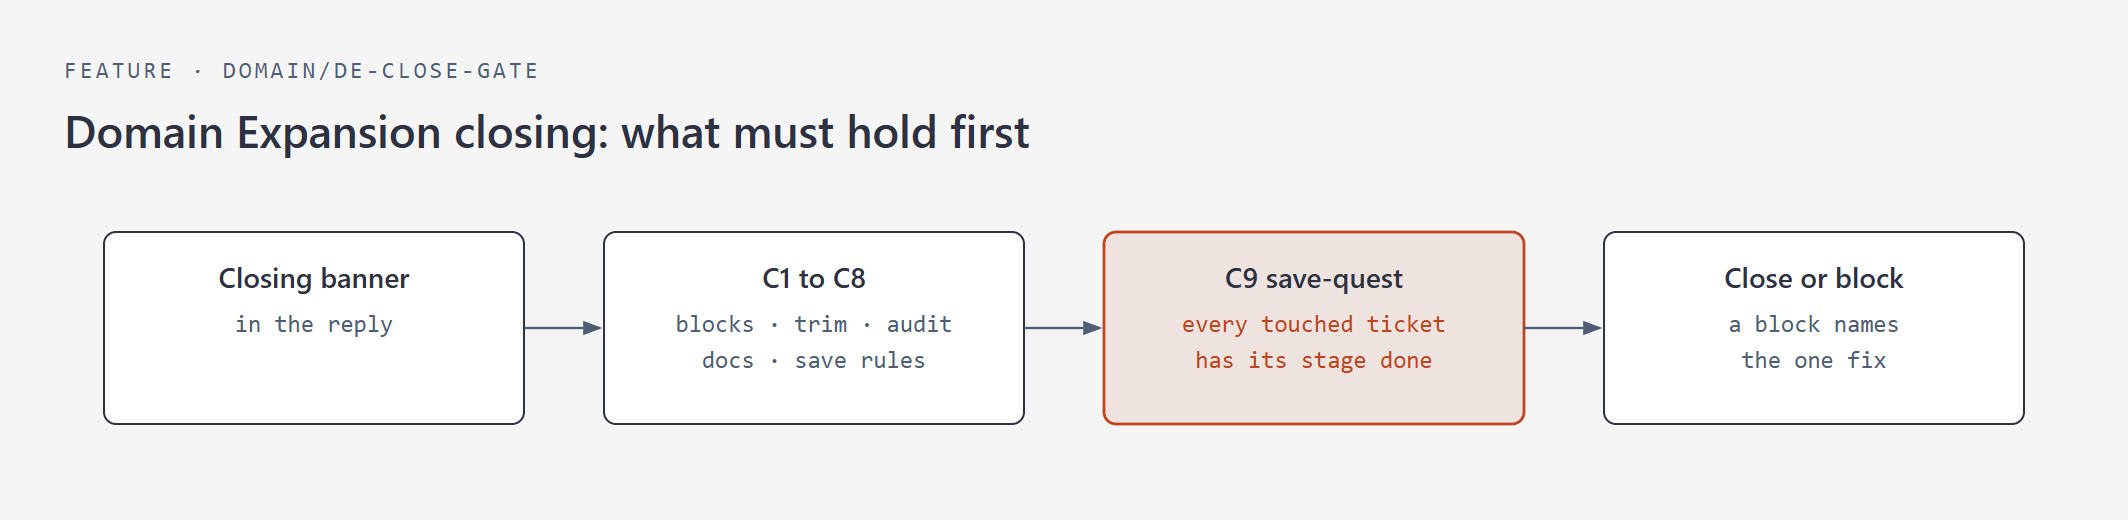
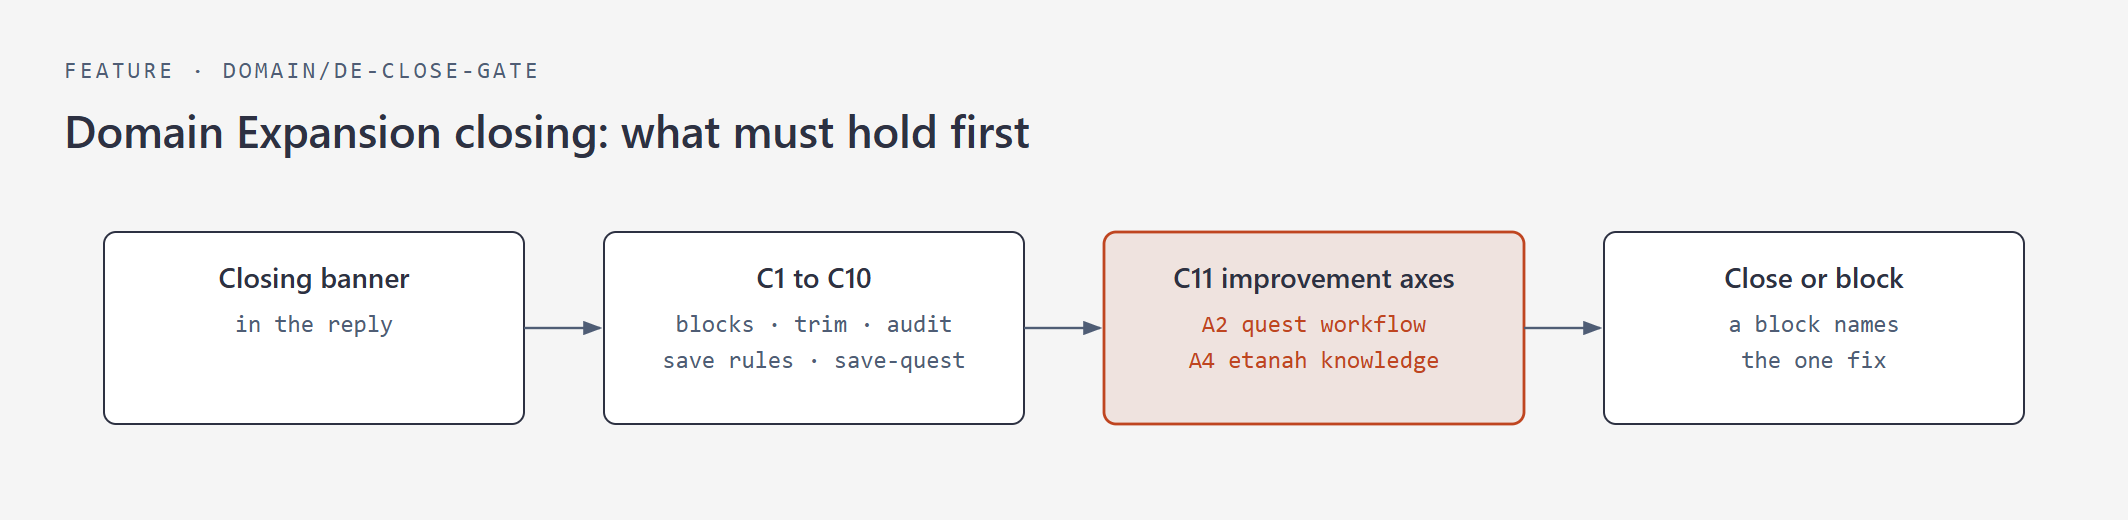
de-close-gate C11: DE close needs an A2 quest-workflow line and an A4 etanah-knowledge line; Step 7.5 points at it (per miya, 254267; design audited by claude-fable-5-2) (landed from 2678d44b)

diff --git a/domain/de-close-gate/de-close-gate.check.hook.js b/domain/de-close-gate/de-close-gate.check.hook.js
@@ -19,6 +19,8 @@
 //   C8 SAVE RULES RAN: the latest full action=save-rules-ran row (12h) carries fail=0 (lib/save-rules.js, DE step 12.7).
 //   C9 SAVE-QUEST DONE: every touched QA ticket has a lib/save-quest.js run this session and its stage was done (DE step 2d).
 //   C10 SESSION FINDINGS ROUTED: each class lib/session-audit.js finds in this transcript has a reply line "<class> → <home>" (DE step 7.4).
+//   C11 IMPROVEMENT AXES (2026-11-17 per miya, 254267, design audited by claude-fable-5-2): the session's replies carry
+//       "A2 quest workflow: <finding + proposal | none: reason>" and "A4 etanah-knowledge (<general|state>): <finding + file | none: reason>" (DE step 7.5).
 // PASS (silent): not-DE-close · bypass · all conditions hold
 // BYPASS: [skip-de-close-gate: <reason>] in the last assistant text
 // TEST HOOK: input JSON `_testEvents` overrides transcript parse; `_testActiveText`,
@@ -250,6 +252,16 @@ function checkC10(events, findings) {
   return { pass: unrouted.length === 0, unrouted };
 }
 
+// C11 — IMPROVEMENT AXES (2026-11-17, per miya on 254267: every DE audits the quest workflow and etanah-knowledge).
+// Step 7.5 asked for them in prose only. Any assistant text of the session counts, not only the last block (Fable audit).
+const A2_LINE = /\bA2 quest workflow:[ \t]*[^\s|]/i;
+const A4_LINE = /\bA4 etanah[- ]knowledge \([ \t]*[\w-]+[ \t]*\):[ \t]*[^\s|]/i;
+function checkC11(events) {
+  const text = events.filter(e => e.kind === 'text' && e.role === 'assistant').map(e => String(e.text)).join('\n');
+  const missing = [!A2_LINE.test(text) && 'A2', !A4_LINE.test(text) && 'A4'].filter(Boolean);
+  return { pass: missing.length === 0, missing };
+}
+
 function evaluate(events, disk) {
   const last = lastAssistantText(events);
   if (!last || !DE_CLOSE.test(last)) return { verdict: 'silent', reason: 'not-de-close' };
@@ -264,8 +276,9 @@ function evaluate(events, disk) {
   const c8 = checkC8(disk.gateLogLines, disk.now);
   const c9 = checkC9(events, disk.saveQuestLines || [], disk.sessionStartMs || 0, disk.now);
   const c10 = checkC10(events, disk.findings);
-  if (c1.pass && c2.pass && c3.pass && c4.pass && c5.pass && c6.pass && c7.pass && c8.pass && c9.pass && c10.pass) return { verdict: 'pass', c1, c2, c3, c4, c5, c6, c7, c8, c9, c10 };
-  return { verdict: 'block', c1, c2, c3, c4, c5, c6, c7, c8, c9, c10 };
+  const c11 = checkC11(events);
+  if (c1.pass && c2.pass && c3.pass && c4.pass && c5.pass && c6.pass && c7.pass && c8.pass && c9.pass && c10.pass && c11.pass) return { verdict: 'pass', c1, c2, c3, c4, c5, c6, c7, c8, c9, c10, c11 };
+  return { verdict: 'block', c1, c2, c3, c4, c5, c6, c7, c8, c9, c10, c11 };
 }
 
 function readDisk() {
@@ -312,6 +325,8 @@ function buildBlockReason(r) {
     '   Fix: node lib/save-quest.js <QA> per ticket, do its stage (close-phase skill), re-run it; an unfinished quest gets a reply line "Phase 1 not ready: <QA> <what is missing>".');
   if (r.c10 && !r.c10.pass) rows.push('C10 SESSION FINDINGS NOT ROUTED (DE step 7.4): ' + r.c10.unrouted.join(', '),
     '   Fix: node lib/session-audit.js, then one reply line per class: <class> → <home: knowledge/tool/gate/workflow/memory file, or why none>, then re-close.');
+  if (r.c11 && !r.c11.pass) rows.push('C11 IMPROVEMENT AXES MISSING (DE step 7.5): ' + r.c11.missing.join(', '),
+    '   Fix: add "A2 quest workflow: <finding + proposal row | none: reason>" and "A4 etanah-knowledge (<general|state>): <finding + file | none: reason>", then re-close.');
   return [
     '⛔ de-close-gate: Domain Expansion is closing but a deterministic close-condition FAILED:',
     ...rows.map(x => '   ' + x),
@@ -349,7 +364,7 @@ if (require.main === module) {
     const r = evaluate(events, disk);
     if (r.verdict === 'block') {
       const text = buildBlockReason(r);
-      logFire(secondStop ? 'failed-second-stop' : 'blocked', [!r.c1.pass && ('C1:' + r.c1.missing.join('/')), !r.c2.pass && 'C2', !r.c3.pass && ('C3:' + r.c3.lineCount), !r.c4.pass && 'C4', r.c5 && !r.c5.pass && ('C5:' + r.c5.missing.length), r.c6 && !r.c6.pass && 'C6', r.c7 && !r.c7.pass && ('C7:' + r.c7.stale.length), r.c8 && !r.c8.pass && ('C8:' + (r.c8.ran ? r.c8.fail + 'fail' : 'not-run')), r.c9 && !r.c9.pass && ('C9:' + (r.c9.missing.length + r.c9.undone.length)), r.c10 && !r.c10.pass && ('C10:' + r.c10.unrouted.length)].filter(Boolean).join(' '));
+      logFire(secondStop ? 'failed-second-stop' : 'blocked', [!r.c1.pass && ('C1:' + r.c1.missing.join('/')), !r.c2.pass && 'C2', !r.c3.pass && ('C3:' + r.c3.lineCount), !r.c4.pass && 'C4', r.c5 && !r.c5.pass && ('C5:' + r.c5.missing.length), r.c6 && !r.c6.pass && 'C6', r.c7 && !r.c7.pass && ('C7:' + r.c7.stale.length), r.c8 && !r.c8.pass && ('C8:' + (r.c8.ran ? r.c8.fail + 'fail' : 'not-run')), r.c9 && !r.c9.pass && ('C9:' + (r.c9.missing.length + r.c9.undone.length)), r.c10 && !r.c10.pass && ('C10:' + r.c10.unrouted.length), r.c11 && !r.c11.pass && ('C11:' + r.c11.missing.join('/'))].filter(Boolean).join(' '));
       if (secondStop) return { fired: true, blocked: false };
       return { fired: true, blocked: true, blockReason: text };
     }
@@ -358,4 +373,4 @@ if (require.main === module) {
   });
 }
 
-module.exports = { evaluate, touchedTickets, checkC1, checkC2, checkC3, checkC4, checkC5, checkC6, checkC7, checkC8, checkC9, checkC10, editedSystemFiles };
+module.exports = { evaluate, touchedTickets, checkC1, checkC2, checkC3, checkC4, checkC5, checkC6, checkC7, checkC8, checkC9, checkC10, checkC11, editedSystemFiles };

diff --git a/domain/de-close-gate/de-close-gate.eval.js b/domain/de-close-gate/de-close-gate.eval.js
@@ -18,7 +18,20 @@ const STALE_RECON = [JSON.stringify({ ts: '2026-08-01T00:00:00Z', action: 'recon
 
 const SQ = (qa, verdict, ts) => JSON.stringify({ ts: ts || new Date().toISOString(), qa, redmine: 'Resolved', local: 'active', verdict, dur_ms: 5 });
 
+// C11 (2026-11-17): every DE close carries the two improvement-axis lines; fixtures get them unless _noAxes.
+const AXES = 'A2 quest workflow: none: no quest this session\nA4 etanah-knowledge (general): none: no etanah work';
 function run(overrides) {
+  const o = Object.assign({}, overrides);
+  if (!o._noAxes) {
+    const base = o._testEvents || [
+      { kind: 'tool', name: 'Bash', blob: 'git commit -m "Ref QA-276182 fix"' },
+      { kind: 'tool', name: 'Edit', blob: '{"file_path":"projects/coding-projects/active/QA-276182/QA-276182.md"}' },
+      { kind: 'text', role: 'assistant', text: CLOSE_BANNER },
+    ];
+    o._testEvents = [{ kind: 'text', role: 'assistant', text: AXES }, ...base];
+  }
+  delete o._noAxes;
+  overrides = o;
   const stdin = JSON.stringify(Object.assign({
     transcript_path: '',
     _testEvents: [
@@ -212,6 +225,33 @@ r = run({ _testFindings: [] });
 check('C10 no findings passes', r.status === 0, 'exit=' + r.status);
 r = run({ transcript_path: 'C:/no/such/file.jsonl' });
 check('C10 audit script failure never blocks', r.status === 0, 'exit=' + r.status);
+
+// C11 — improvement axes (2026-11-17, 254267): the close needs an A2 quest-workflow line and an A4 etanah-knowledge line.
+const C11BASE = [
+  { kind: 'tool', name: 'Bash', blob: 'git commit -m "Ref QA-276182 fix"' },
+  { kind: 'tool', name: 'Edit', blob: '{"file_path":"projects/coding-projects/active/QA-276182/QA-276182.md"}' },
+];
+const close = t => ({ kind: 'text', role: 'assistant', text: t });
+r = run({ _noAxes: true, _testEvents: [...C11BASE, close(CLOSE_BANNER)] });
+check('C11-1 REPLAY 254267: a close with neither line -> BLOCK naming A2 and A4', r.status === 2 && /C11 IMPROVEMENT AXES MISSING/.test(r.stderr) && /A2, A4/.test(r.stderr), 'exit=' + r.status);
+r = run({ _noAxes: true, _testEvents: [...C11BASE, close('A2 quest workflow: proposal logged for teammate rows\n' + CLOSE_BANNER)] });
+check('C11-2 A2 only -> BLOCK naming A4', r.status === 2 && /AXES MISSING[^\n]*A4/.test(r.stderr) && !/MISSING[^\n]*A2/.test(r.stderr), 'exit=' + r.status);
+r = run({ _noAxes: true, _testEvents: [...C11BASE, close('A2 quest workflow: x\nA4 etanah-knowledge (perak): STATE-FACTS 12 added'), close(CLOSE_BANNER)] });
+check('C11-3 lines in an EARLIER reply of the close count (Fable audit) -> pass', r.status === 0, 'exit=' + r.status + ' ' + r.stderr.slice(0, 200));
+r = run({ _noAxes: true, _testEvents: [...C11BASE, close('A2 quest workflow: none: no quest\nA4 etanah-knowledge (general): none: no etanah work\n' + CLOSE_BANNER)] });
+check('C11-4 "none: reason" on both lines -> pass', r.status === 0, 'exit=' + r.status);
+r = run({ _noAxes: true, _testEvents: [...C11BASE, close('| A2 quest workflow: proposal row 2 |\n| A4 etanah knowledge (melaka): DATABASE.md |\n' + CLOSE_BANNER)] });
+check('C11-5 lines inside a table row, "etanah knowledge" with a space -> pass', r.status === 0, 'exit=' + r.status);
+r = run({ _noAxes: true, _testEvents: [...C11BASE, close('A2 quest workflow:\nA4 etanah-knowledge (general):\n' + CLOSE_BANNER)] });
+check('C11-6 empty lines (label only) -> BLOCK', r.status === 2 && /C11/.test(r.stderr), 'exit=' + r.status);
+r = run({ _noAxes: true, _testEvents: [...C11BASE, close('A2 quest workflow: x\nA4 etanah-knowledge: y\n' + CLOSE_BANNER)] });
+check('C11-7 A4 without its (general|state) scope -> BLOCK naming A4', r.status === 2 && /AXES MISSING[^\n]*A4/.test(r.stderr), 'exit=' + r.status);
+r = run({ _noAxes: true, _testEvents: [...C11BASE, { kind: 'text', role: 'user', text: 'A2 quest workflow: x\nA4 etanah-knowledge (general): y' }, close(CLOSE_BANNER)] });
+check('C11-8 lines only in HIS message do not count -> BLOCK', r.status === 2 && /C11/.test(r.stderr), 'exit=' + r.status);
+r = run({ _noAxes: true, _testEvents: [close('normal reply, no banner')] });
+check('C11-9 not a DE close -> silent even without the lines', r.status === 0, 'exit=' + r.status);
+r = run({ _noAxes: true, _testEvents: [...C11BASE, close(CLOSE_BANNER + '\n[skip-de-close-gate: test]')] });
+check('C11-10 bypass token still works', r.status === 0, 'exit=' + r.status);
 r = run({ stop_hook_active: true, _testFindings: FINDING });
 check('C10 second stop does not block again', r.status === 0, 'exit=' + r.status);
 

diff --git a/domain/de-close-gate/diagram.html b/domain/de-close-gate/diagram.html
@@ -19,7 +19,7 @@ svg { width: 100%; min-width: 900px; display: block; }
 <h1>Domain Expansion closing: what must hold first</h1>
 <svg viewBox="0 0 1000 136" xmlns="http://www.w3.org/2000/svg" role="img" aria-labelledby="t d">
 <title id="t">Domain Expansion closing: what must hold first</title>
-<desc id="d">Closing banner, then C1 to C8, then C9 save-quest, then Close or block.</desc>
+<desc id="d">Closing banner, then C1 to C10, then C11 improvement axes, then Close or block.</desc>
 <defs><marker id="a" markerWidth="8" markerHeight="6" refX="7" refY="3" orient="auto"><polygon points="0 0, 8 3, 0 6" fill="#4f5d75"/></marker></defs>
 <rect width="100%" height="100%" fill="#f5f5f5"/>
 <rect x="20" y="20" width="210" height="96" rx="6" fill="#ffffff" stroke="#2d3142" stroke-width="1"/>
@@ -27,14 +27,14 @@ svg { width: 100%; min-width: 900px; display: block; }
 <text x="125" y="70" fill="#4f5d75" font-size="12" font-family="Consolas, monospace" text-anchor="middle">in the reply</text>
 <line x1="230" y1="68" x2="268" y2="68" stroke="#4f5d75" stroke-width="1.2" marker-end="url(#a)"/>
 <rect x="270" y="20" width="210" height="96" rx="6" fill="#ffffff" stroke="#2d3142" stroke-width="1"/>
-<text x="375" y="48" fill="#2d3142" font-size="14" font-weight="600" text-anchor="middle">C1 to C8</text>
+<text x="375" y="48" fill="#2d3142" font-size="14" font-weight="600" text-anchor="middle">C1 to C10</text>
 <text x="375" y="70" fill="#4f5d75" font-size="12" font-family="Consolas, monospace" text-anchor="middle">blocks · trim · audit</text>
-<text x="375" y="88" fill="#4f5d75" font-size="12" font-family="Consolas, monospace" text-anchor="middle">docs · save rules</text>
+<text x="375" y="88" fill="#4f5d75" font-size="12" font-family="Consolas, monospace" text-anchor="middle">save rules · save-quest</text>
 <line x1="480" y1="68" x2="518" y2="68" stroke="#4f5d75" stroke-width="1.2" marker-end="url(#a)"/>
 <rect x="520" y="20" width="210" height="96" rx="6" fill="rgba(191,69,32,0.10)" stroke="#bf4520" stroke-width="1.4"/>
-<text x="625" y="48" fill="#2d3142" font-size="14" font-weight="600" text-anchor="middle">C9 save-quest</text>
-<text x="625" y="70" fill="#bf4520" font-size="12" font-family="Consolas, monospace" text-anchor="middle">every touched ticket</text>
-<text x="625" y="88" fill="#bf4520" font-size="12" font-family="Consolas, monospace" text-anchor="middle">has its stage done</text>
+<text x="625" y="48" fill="#2d3142" font-size="14" font-weight="600" text-anchor="middle">C11 improvement axes</text>
+<text x="625" y="70" fill="#bf4520" font-size="12" font-family="Consolas, monospace" text-anchor="middle">A2 quest workflow</text>
+<text x="625" y="88" fill="#bf4520" font-size="12" font-family="Consolas, monospace" text-anchor="middle">A4 etanah knowledge</text>
 <line x1="730" y1="68" x2="768" y2="68" stroke="#4f5d75" stroke-width="1.2" marker-end="url(#a)"/>
 <rect x="770" y="20" width="210" height="96" rx="6" fill="#ffffff" stroke="#2d3142" stroke-width="1"/>
 <text x="875" y="48" fill="#2d3142" font-size="14" font-weight="600" text-anchor="middle">Close or block</text>

diff --git a/domain/de-close-gate/README.md b/domain/de-close-gate/README.md
@@ -51,11 +51,13 @@ Rule: DE close BLOCKS unless the latest full (non-partial) `action=save-rules-ra
 ## C7 — qa_doc saved this session (added 2026-09-23, #280176 DE audit)
 Every touched ticket whose active.txt block names a `qa_doc=` must have that file modified after the session started. Step 2c (save every quest touched) had no check. A doc absent on disk is skipped; a worktree also looks in the main checkout three levels up. Eval F19–F21.
 
-diagram: domain/de-close-gate/diagram.png (C9 marked)
+diagram: domain/de-close-gate/diagram.png (C11 marked)
 self_audit: the eval replays every condition; each fire writes passed or blocked with the failing conditions to log.jsonl
 
 **C9 SAVE-QUEST (2026-10-30, per みや: "please audit if just saying DE is enough to perform save quest")**: step 2d of Domain Expansion said to run `lib/save-quest.js` for every touched quest, and nothing checked it. C9 blocks the close when a touched QA ticket has no run this session, or its latest verdict is still PHASE-1, PHASE-2 or LEARN-THEN-PHASE-2 with no reply line "Phase 1 not ready: <QA> <what is missing>". An ADHOC id is exempt (adhoc-save owns it). Eval 44/44 (C9-1 to C9-13).
 
 **C10 SESSION FINDINGS ROUTED (2026-10-30, per みや: "audit of an audit")**: `lib/session-audit.js` reads the transcript at the close; each finding class needs one reply line `<class> → <home, or why none>`. boundary: covers the finding classes the audit script returns for this transcript and the reply's `→` lines · never runs the audit outside a close, never fails the close when the audit script throws, never judges whether a named home is the right one · stops at a block listing the unrouted classes; the routing is Ruri's reply, the build-or-drop at 3 repeats is his ruling. Eval C10-1 to C10-4.
+
+**C11 IMPROVEMENT AXES (2026-11-17, per みや on 254267: every DE audits the quest workflow and etanah-knowledge; design audited by claude-fable-5-2)**: the session's replies carry `A2 quest workflow: <finding + proposal row | none: reason>` and `A4 etanah-knowledge (<general|state key>): <finding + file | none: reason>` (DE Step 7.5). Any assistant reply of the session counts, not only the last; text on the same line after the colon is required. boundary: covers the assistant replies of the closing session · never reads his messages as the lines, never judges whether the finding is good · stops at a block naming A2 or A4. Eval C11-1 to C11-10.
 
 **Second stop (2026-10-30)**: on a retry after a block the gate used to stay silent, so a fixed re-close left no row. It now checks and logs `passed-second-stop` or `failed-second-stop`, and still never blocks twice. Spec kept: one block per close. Eval S1 to S4.

diff --git a/Feature/Domain-Expansion/expansion-protocol.md b/Feature/Domain-Expansion/expansion-protocol.md
@@ -204,6 +204,8 @@ surfaced today".
 
 ### Required output — two parts, both written, not just spoken
 
+**Gate-checked (2026-11-17 per みや, 254267):** the close reply carries `A2 quest workflow: <finding + proposal row | none: reason>` and `A4 etanah-knowledge (<general|state key>): <finding + file written | none: reason>`; `domain/de-close-gate` condition C11 blocks the close without them.
+
 **(a) ASSESSMENT** — what this session actually showed, measured, with the instance that proves each
 point: the five-axis table in the DE reply and in the session recap (`main/current-session.md`); each
 proposal row of (b) carries its own instance. **No file.** `system/` holds the constitution and the
